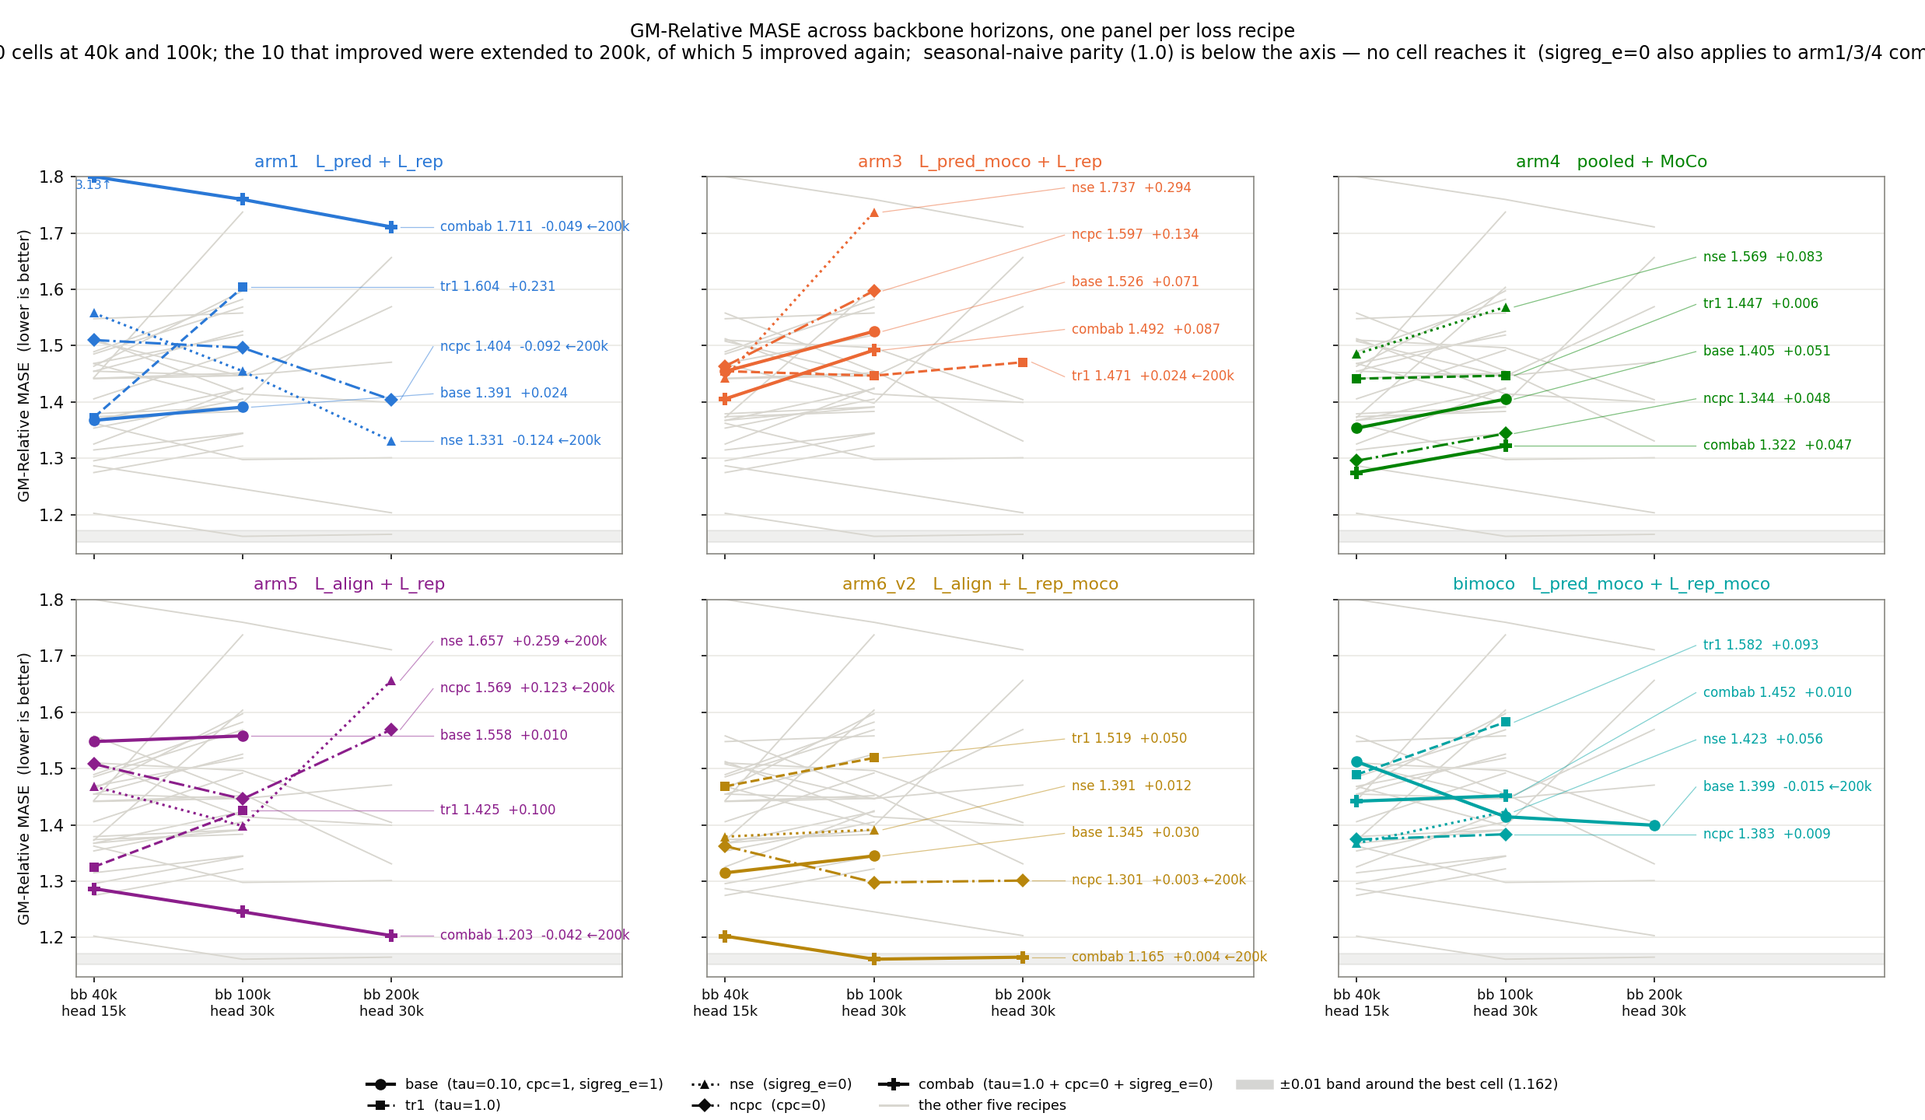
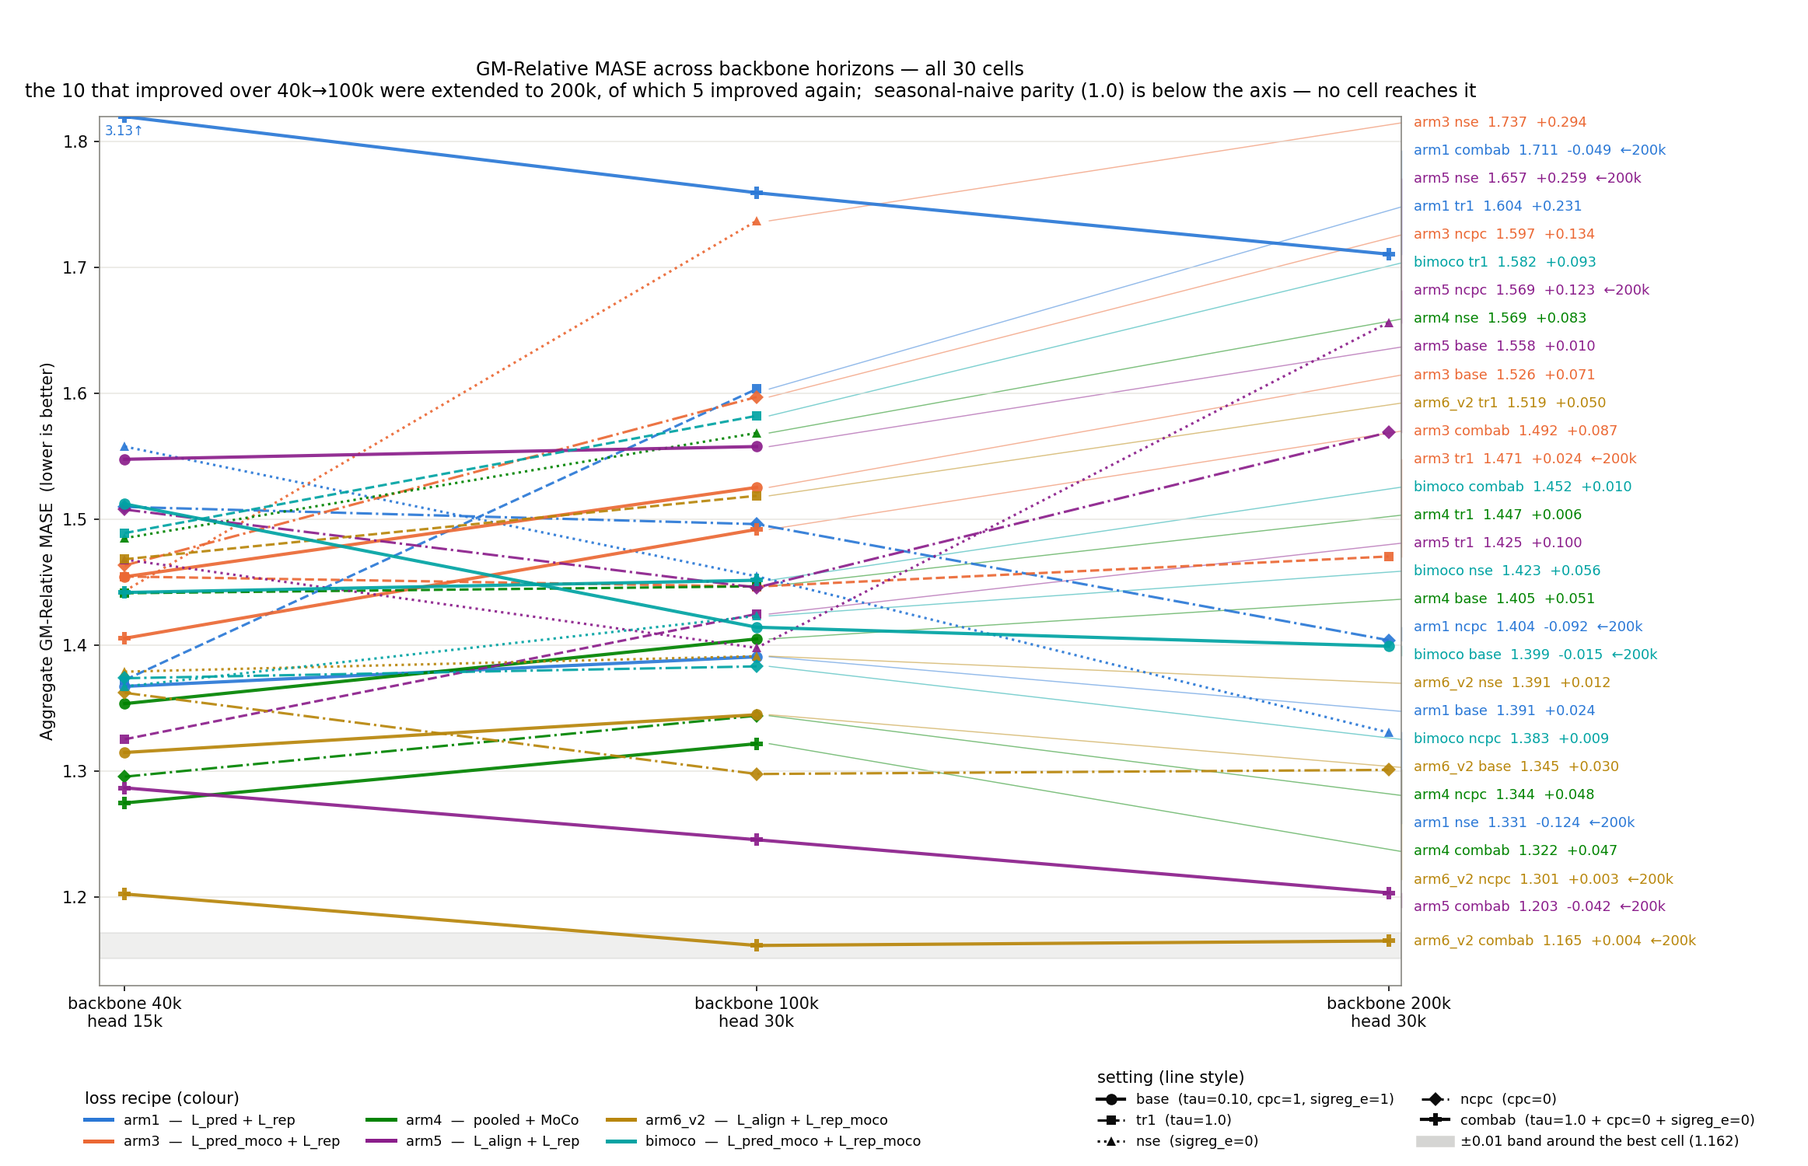
report(#379): restore the all-cell chart as figure 1, keep per-recipe as figure 2
The per-recipe panels replaced the combined chart rather than complementing it.
Both are useful, so both are in: figure 1 is every cell on one axes, figure 2
splits the same data by recipe.

Figure 1 wins its width back by shortening the right-hand labels to name, last
value and change. The loss recipe and the knobs each setting turns are decoded
once in two legends instead of being repeated in all 30 labels — spelled out
per label they took more width than the curves. The plotting area now spans
about 78% of the figure instead of 35%.

Claude-Session: https://claude.ai/code/session_012NGZ7hjBMq9qppu4QyaqMw

diff --git a/reports/2026-07-21_split_pred_rep_small/plots/_make_eval_progression.py b/reports/2026-07-21_split_pred_rep_small/plots/_make_eval_progression.py
@@ -1,9 +1,12 @@
-"""GM-MASE across backbone horizons, one panel per loss recipe.
+"""GM-MASE for every cell across backbone horizons, one combined chart.
 
 All 30 cells have backbone 40k and 100k; the 10 that improved over that stretch
-were extended to 200k. Splitting by recipe keeps every label beside its own line
-inside its own panel — a single combined panel needs 30 leader lines to the
-right margin, which is what made the earlier version hard to read.
+were extended to 200k.
+
+The right-hand labels carry only the cell name, its last value and its change.
+The loss recipe and the knobs each setting turns are decoded once in the two
+legends instead of being repeated in all 30 labels — spelled out per label they
+took more width than the curves themselves.
 """
 from pathlib import Path
 import matplotlib.pyplot as plt
@@ -18,12 +21,10 @@ plt.rcParams.update({
     "xtick.color": INK, "ytick.color": INK,
 })
 
-X = [0, 1, 2]           # 40k, 100k, 200k
-YMIN, YMAX = 1.13, 1.80  # arm1 combab's 3.13 at 40k is annotated, not drawn
+X = [0, 1, 2]
+YMIN, YMAX = 1.13, 1.82
 SEED_NOISE = 0.01
-
-cells = C.all_cells()
-by_arm = {a: [(v, vals) for (aa, v, vals) in cells if aa == a] for a in C.ARMS}
+LABEL_X = 2.04          # just outside the axes; the figure margin holds the text
 
 def spread(anchors, gap, lo, hi):
     order = sorted(range(len(anchors)), key=lambda i: anchors[i])
@@ -35,79 +36,76 @@ def spread(anchors, gap, lo, hi):
         pos[i] = min(pos[i], prev - gap); prev = pos[i]
     return pos
 
-fig, axes = plt.subplots(2, 3, figsize=(16.5, 9.6), sharex=True, sharey=True)
+cells = C.all_cells()
 best_val = min(v for _a, _v, vals in cells for v in vals if v is not None)
 
-for ax, arm in zip(axes.flat, C.ARMS):
+fig, ax = plt.subplots(figsize=(15.5, 10))
+# Axes take the full left portion; labels live in the right margin.
+fig.subplots_adjust(left=0.055, right=0.775, top=0.90, bottom=0.155)
+
+anchors, drawn = [], []
+for arm, var, vals in cells:
+    colour, st = C.ARM_COLOR[arm], C.VAR_STYLE[var]
+    pts = [(x, min(v, YMAX)) for x, v in zip(X, vals) if v is not None]
+    if len(pts) > 1:
+        ax.plot([p[0] for p in pts], [p[1] for p in pts], color=colour,
+                ls=st["ls"], lw=st["lw"], marker=st["marker"],
+                markersize=st["ms"], markeredgewidth=0, alpha=0.92, zorder=3)
+    for x, v in zip(X, vals):
+        if v is not None and v > YMAX:
+            ax.annotate(f"{v:.2f}↑", xy=(x, YMAX - 0.006), fontsize=8,
+                        color=colour, ha="center", va="top", zorder=5)
+    anchors.append(pts[-1][1]); drawn.append((arm, var, vals, pts[-1]))
+
+ys = spread(anchors, gap=(YMAX - YMIN) / (len(anchors) + 1),
+            lo=YMIN + 0.005, hi=YMAX - 0.005)
+for (arm, var, vals, (last_x, last_v)), y_lab in zip(drawn, ys):
     colour = C.ARM_COLOR[arm]
-    # Every other recipe in grey, so each panel keeps the full context.
-    for other, rows in by_arm.items():
-        if other == arm: continue
-        for var, vals in rows:
-            pts = [(x, min(v, YMAX)) for x, v in zip(X, vals) if v is not None]
-            if len(pts) > 1:
-                ax.plot([p[0] for p in pts], [p[1] for p in pts],
-                        color="#d8d6cf", lw=0.9, zorder=1)
+    have = [v for v in vals if v is not None]
+    delta = f"  {have[-1] - have[-2]:+.3f}" if len(have) > 1 else ""
+    tag = "  ←200k" if last_x == 2 else ""
+    ax.plot([last_x + 0.02, LABEL_X - 0.02], [last_v, y_lab], color=colour,
+            lw=0.7, alpha=0.5, zorder=1, clip_on=False)
+    ax.text(LABEL_X, y_lab, f"{C.label(arm, var)}  {have[-1]:.3f}{delta}{tag}",
+            color=colour, fontsize=8.5, va="center", ha="left", clip_on=False)
 
-    anchors, drawn = [], []
-    for var, vals in by_arm[arm]:
-        pts = [(x, min(v, YMAX)) for x, v in zip(X, vals) if v is not None]
-        st = C.VAR_STYLE[var]
-        if len(pts) > 1:
-            ax.plot([p[0] for p in pts], [p[1] for p in pts], color=colour,
-                    ls=st["ls"], lw=st["lw"], marker=st["marker"],
-                    markersize=st["ms"], markeredgewidth=0, zorder=4)
-        for x, v in zip(X, vals):
-            if v is not None and v > YMAX:
-                ax.annotate(f"{v:.2f}↑", xy=(x, YMAX - 0.006), fontsize=7.5,
-                            color=colour, ha="center", va="top", zorder=5)
-        last_x, last_v = pts[-1]
-        anchors.append(last_v); drawn.append((var, vals, last_x, last_v))
-
-    ys = spread(anchors, gap=(YMAX - YMIN) / 8.0, lo=YMIN + 0.02, hi=YMAX - 0.02)
-    for (var, vals, last_x, last_v), y_lab in zip(drawn, ys):
-        have = [v for v in vals if v is not None]
-        delta = f"  {have[-1] - have[-2]:+.3f}" if len(have) > 1 else ""
-        tag = "←200k" if last_x == 2 else ""
-        ax.plot([last_x + 0.06, 2.28], [last_v, y_lab], color=colour,
-                lw=0.6, alpha=0.5, zorder=2)
-        ax.text(2.33, y_lab, f"{C.VAR_SHORT[var]} {have[-1]:.3f}{delta} {tag}",
-                color=colour, fontsize=8, va="center", ha="left")
-
-    ax.axhspan(best_val - SEED_NOISE, best_val + SEED_NOISE,
-               color=MUTED, alpha=0.13, zorder=0)
-    ax.set_title(f"{arm}   {C.ARM_LOSS[arm]}", fontsize=10.5, color=colour, pad=6)
-    ax.set_xlim(-0.12, 3.55)
-    ax.set_ylim(YMIN, YMAX)
-    ax.set_xticks(X)
-    ax.set_xticklabels(["bb 40k\nhead 15k", "bb 100k\nhead 30k", "bb 200k\nhead 30k"],
-                       fontsize=8.5)
-    ax.grid(True, axis="y", color=GRID, alpha=0.7)
-
-for ax in axes[:, 0]:
-    ax.set_ylabel("GM-Relative MASE  (lower is better)", fontsize=9.5)
+ax.axhspan(best_val - SEED_NOISE, best_val + SEED_NOISE,
+           color=MUTED, alpha=0.13, zorder=0)
+ax.set_xticks(X)
+ax.set_xticklabels(["backbone 40k\nhead 15k", "backbone 100k\nhead 30k",
+                    "backbone 200k\nhead 30k"], fontsize=10)
+ax.set_xlim(-0.04, 2.02)
+ax.set_ylim(YMIN, YMAX)
+ax.set_ylabel("Aggregate GM-Relative MASE  (lower is better)")
+ax.grid(True, axis="y", color=GRID, alpha=0.7)
 
 from matplotlib.lines import Line2D
-handles = [Line2D([], [], color=INK, ls=C.VAR_STYLE[v]["ls"],
-                  marker=C.VAR_STYLE[v]["marker"], markersize=C.VAR_STYLE[v]["ms"],
-                  markeredgewidth=0, lw=C.VAR_STYLE[v]["lw"],
-                  label=f"{C.VAR_SHORT[v]}  ({C.variant_knobs('arm1', v)})")
-           for v in C.VARIANTS]
-handles += [Line2D([], [], color="#d8d6cf", lw=1.4, label="the other five recipes"),
-            Line2D([], [], color=MUTED, lw=6, alpha=0.35,
-                   label=f"±{SEED_NOISE} band around the best cell ({best_val:.3f})")]
-fig.legend(handles=handles, loc="lower center", ncol=4, fontsize=8.5,
-           frameon=False, bbox_to_anchor=(0.5, -0.005))
+recipe_handles = [Line2D([], [], color=C.ARM_COLOR[a], lw=2.4,
+                         label=f"{a}  —  {C.ARM_LOSS[a]}") for a in C.ARMS]
+setting_handles = [Line2D([], [], color=INK, ls=C.VAR_STYLE[v]["ls"],
+                          marker=C.VAR_STYLE[v]["marker"],
+                          markersize=C.VAR_STYLE[v]["ms"], markeredgewidth=0,
+                          lw=C.VAR_STYLE[v]["lw"],
+                          label=f"{C.VAR_SHORT[v]}  ({C.variant_knobs('arm1', v)})")
+                   for v in C.VARIANTS]
+setting_handles.append(Line2D([], [], color=MUTED, lw=7, alpha=0.35,
+                              label=f"±{SEED_NOISE} band around the best cell ({best_val:.3f})"))
+leg1 = fig.legend(handles=recipe_handles, loc="lower left", ncol=3, fontsize=8.5,
+                  frameon=False, title="loss recipe (colour)",
+                  bbox_to_anchor=(0.04, 0.004))
+leg1._legend_box.align = "left"
+leg2 = fig.legend(handles=setting_handles, loc="lower left", ncol=2, fontsize=8.5,
+                  frameon=False, title="setting (line style)",
+                  bbox_to_anchor=(0.60, 0.004))
+leg2._legend_box.align = "left"
 
 n200 = sum(1 for _a, _v, vals in cells if vals[2] is not None)
 down = sum(1 for _a, _v, vals in cells
            if vals[2] is not None and vals[1] is not None and vals[2] < vals[1])
-fig.suptitle("GM-Relative MASE across backbone horizons, one panel per loss recipe\n"
-             f"all 30 cells at 40k and 100k; the {n200} that improved were extended to 200k, "
-             f"of which {down} improved again;  seasonal-naive parity (1.0) is below the axis — "
-             f"no cell reaches it  (sigreg_e=0 also applies to arm1/3/4 combab)",
-             fontsize=11.5)
-fig.tight_layout(rect=[0, 0.075, 1, 0.93])
+ax.set_title("GM-Relative MASE across backbone horizons — all 30 cells\n"
+             f"the {n200} that improved over 40k→100k were extended to 200k, of which "
+             f"{down} improved again;  seasonal-naive parity (1.0) is below the axis — "
+             "no cell reaches it", fontsize=11.5, pad=12)
 out = HERE / "eval_2L_gm_mase_progression.png"
 fig.savefig(out)
 print(f"wrote {out}  ({len(cells)} cells, {n200} at 200k, {down} improved again)")

diff --git a/reports/2026-07-21_split_pred_rep_small/plots/_make_eval_per_recipe.py b/reports/2026-07-21_split_pred_rep_small/plots/_make_eval_per_recipe.py
@@ -1,0 +1,117 @@
+"""GM-MASE across backbone horizons, one panel per loss recipe.
+
+Companion to the combined chart in _make_eval_progression.py: same data, split
+by recipe so each recipe's five settings can be read without tracing a line
+across 30 others.
+
+All 30 cells have backbone 40k and 100k; the 10 that improved over that stretch
+were extended to 200k. Splitting by recipe keeps every label beside its own line
+inside its own panel — a single combined panel needs 30 leader lines to the
+right margin, which is what made the earlier version hard to read.
+"""
+from pathlib import Path
+import matplotlib.pyplot as plt
+
+import _cells as C
+
+HERE = Path(__file__).parent
+INK, MUTED, GRID = "#0b0b0b", "#898781", "#e1e0d9"
+plt.rcParams.update({
+    "figure.dpi": 150, "savefig.dpi": 150, "font.size": 10,
+    "axes.edgecolor": MUTED, "axes.labelcolor": INK,
+    "xtick.color": INK, "ytick.color": INK,
+})
+
+X = [0, 1, 2]           # 40k, 100k, 200k
+YMIN, YMAX = 1.13, 1.80  # arm1 combab's 3.13 at 40k is annotated, not drawn
+SEED_NOISE = 0.01
+
+cells = C.all_cells()
+by_arm = {a: [(v, vals) for (aa, v, vals) in cells if aa == a] for a in C.ARMS}
+
+def spread(anchors, gap, lo, hi):
+    order = sorted(range(len(anchors)), key=lambda i: anchors[i])
+    pos = list(anchors); prev = lo - gap
+    for i in order:
+        pos[i] = max(pos[i], prev + gap); prev = pos[i]
+    prev = hi + gap
+    for i in reversed(order):
+        pos[i] = min(pos[i], prev - gap); prev = pos[i]
+    return pos
+
+fig, axes = plt.subplots(2, 3, figsize=(16.5, 9.6), sharex=True, sharey=True)
+best_val = min(v for _a, _v, vals in cells for v in vals if v is not None)
+
+for ax, arm in zip(axes.flat, C.ARMS):
+    colour = C.ARM_COLOR[arm]
+    # Every other recipe in grey, so each panel keeps the full context.
+    for other, rows in by_arm.items():
+        if other == arm: continue
+        for var, vals in rows:
+            pts = [(x, min(v, YMAX)) for x, v in zip(X, vals) if v is not None]
+            if len(pts) > 1:
+                ax.plot([p[0] for p in pts], [p[1] for p in pts],
+                        color="#d8d6cf", lw=0.9, zorder=1)
+
+    anchors, drawn = [], []
+    for var, vals in by_arm[arm]:
+        pts = [(x, min(v, YMAX)) for x, v in zip(X, vals) if v is not None]
+        st = C.VAR_STYLE[var]
+        if len(pts) > 1:
+            ax.plot([p[0] for p in pts], [p[1] for p in pts], color=colour,
+                    ls=st["ls"], lw=st["lw"], marker=st["marker"],
+                    markersize=st["ms"], markeredgewidth=0, zorder=4)
+        for x, v in zip(X, vals):
+            if v is not None and v > YMAX:
+                ax.annotate(f"{v:.2f}↑", xy=(x, YMAX - 0.006), fontsize=7.5,
+                            color=colour, ha="center", va="top", zorder=5)
+        last_x, last_v = pts[-1]
+        anchors.append(last_v); drawn.append((var, vals, last_x, last_v))
+
+    ys = spread(anchors, gap=(YMAX - YMIN) / 8.0, lo=YMIN + 0.02, hi=YMAX - 0.02)
+    for (var, vals, last_x, last_v), y_lab in zip(drawn, ys):
+        have = [v for v in vals if v is not None]
+        delta = f"  {have[-1] - have[-2]:+.3f}" if len(have) > 1 else ""
+        tag = "←200k" if last_x == 2 else ""
+        ax.plot([last_x + 0.06, 2.28], [last_v, y_lab], color=colour,
+                lw=0.6, alpha=0.5, zorder=2)
+        ax.text(2.33, y_lab, f"{C.VAR_SHORT[var]} {have[-1]:.3f}{delta} {tag}",
+                color=colour, fontsize=8, va="center", ha="left")
+
+    ax.axhspan(best_val - SEED_NOISE, best_val + SEED_NOISE,
+               color=MUTED, alpha=0.13, zorder=0)
+    ax.set_title(f"{arm}   {C.ARM_LOSS[arm]}", fontsize=10.5, color=colour, pad=6)
+    ax.set_xlim(-0.12, 3.55)
+    ax.set_ylim(YMIN, YMAX)
+    ax.set_xticks(X)
+    ax.set_xticklabels(["bb 40k\nhead 15k", "bb 100k\nhead 30k", "bb 200k\nhead 30k"],
+                       fontsize=8.5)
+    ax.grid(True, axis="y", color=GRID, alpha=0.7)
+
+for ax in axes[:, 0]:
+    ax.set_ylabel("GM-Relative MASE  (lower is better)", fontsize=9.5)
+
+from matplotlib.lines import Line2D
+handles = [Line2D([], [], color=INK, ls=C.VAR_STYLE[v]["ls"],
+                  marker=C.VAR_STYLE[v]["marker"], markersize=C.VAR_STYLE[v]["ms"],
+                  markeredgewidth=0, lw=C.VAR_STYLE[v]["lw"],
+                  label=f"{C.VAR_SHORT[v]}  ({C.variant_knobs('arm1', v)})")
+           for v in C.VARIANTS]
+handles += [Line2D([], [], color="#d8d6cf", lw=1.4, label="the other five recipes"),
+            Line2D([], [], color=MUTED, lw=6, alpha=0.35,
+                   label=f"±{SEED_NOISE} band around the best cell ({best_val:.3f})")]
+fig.legend(handles=handles, loc="lower center", ncol=4, fontsize=8.5,
+           frameon=False, bbox_to_anchor=(0.5, -0.005))
+
+n200 = sum(1 for _a, _v, vals in cells if vals[2] is not None)
+down = sum(1 for _a, _v, vals in cells
+           if vals[2] is not None and vals[1] is not None and vals[2] < vals[1])
+fig.suptitle("GM-Relative MASE across backbone horizons, one panel per loss recipe\n"
+             f"all 30 cells at 40k and 100k; the {n200} that improved were extended to 200k, "
+             f"of which {down} improved again;  seasonal-naive parity (1.0) is below the axis — "
+             f"no cell reaches it  (sigreg_e=0 also applies to arm1/3/4 combab)",
+             fontsize=11.5)
+fig.tight_layout(rect=[0, 0.075, 1, 0.93])
+out = HERE / "eval_2L_gm_mase_per_recipe.png"
+fig.savefig(out)
+print(f"wrote {out}  ({len(cells)} cells, {n200} at 200k, {down} improved again)")

diff --git a/reports/2026-07-21_split_pred_rep_small/small_long.md b/reports/2026-07-21_split_pred_rep_small/small_long.md
@@ -8,37 +8,43 @@ Definitions of each recipe and each setting are in [Architectures](#architecture
 
 ## Figures
 
-### 1. GM-Relative MASE across backbone horizons
+### 1. GM-Relative MASE across backbone horizons — all 30 cells
 
-One panel per loss recipe, sharing axes. Inside a panel the five settings are coloured and the other 25 cells are grey, so each recipe is readable on its own and still in context. Labels carry the cell's last value and its change from the previous horizon; `←200k` marks the cells extended to 200k.
+Every cell on one chart. Colour is the loss recipe, line style is the setting, and both are decoded in the legends. Labels carry the cell's last value and its change from the previous horizon; `←200k` marks the cells extended to 200k.
 
-![Six panels, one per loss recipe, each plotting GM-Relative MASE at backbone 40k (head 15k), 100k (head 30k) and 200k (head 30k); the panel's own five settings are in colour with the other 25 cells in grey; line style encodes the setting; the grey horizontal band is ±0.01 around the best cell; arm1 combab's 3.13 at 40k is annotated above the axis.](plots/eval_2L_gm_mase_progression.png)
+![One chart plotting GM-Relative MASE for all 30 cells at backbone 40k (head 15k), 100k (head 30k) and 200k (head 30k); colour encodes the loss recipe and line style the setting; the grey horizontal band is ±0.01 around the best cell; arm1 combab's 3.13 at 40k is annotated above the axis.](plots/eval_2L_gm_mase_progression.png)
 
-### 2. GM-Relative MASE per dataset domain
+### 2. The same data, one panel per loss recipe
+
+Each panel colours its own five settings and greys the other 25 cells, so a recipe can be read without tracing one line across the other 29.
+
+![Six panels, one per loss recipe, each plotting GM-Relative MASE at backbone 40k, 100k and 200k; the panel's own five settings are in colour with the other 25 cells in grey; line style encodes the setting; the grey horizontal band is ±0.01 around the best cell.](plots/eval_2L_gm_mase_per_recipe.png)
+
+### 3. GM-Relative MASE per dataset domain
 
 The headline number is one geometric mean over all 97 configs. These radars apply that same geometric mean inside each of the 7 GIFT-Eval domains, so a cell's strong and weak domains are visible instead of averaged away. Left: the 5 lowest cells, each at its last evaluated backbone step. Right: every cell that improved from 100k to 200k.
 
 ![Two radar charts over the 7 GIFT-Eval dataset domains, radial axis log2 of the GM-Relative MASE ratio; a red dashed ring marks seasonal-naive parity at 1.0, inside it the model is better; left panel the 5 lowest cells, right panel the 5 cells that improved from backbone 100k to 200k.](plots/eval_domain_radar.png)
 
-### 3. Ranking at backbone 40k
+### 4. Ranking at backbone 40k
 
 ![Bar chart of GM-Relative MASE for all 30 cells at backbone step 40k, head 15k steps, sorted ascending; red dashed line at 1.0 = seasonal-naive; arm1 combab (3.13) clipped at 1.75.](plots/eval_2L_gm_mase_bars.png)
 
-### 4. Ranking at backbone 100k
+### 5. Ranking at backbone 100k
 
 ![Bar chart of GM-Relative MASE for all 30 cells at backbone step 100k, head 30k steps, sorted ascending; red dashed line at 1.0 = seasonal-naive.](plots/eval_2L_gm_mase_bars_100k.png)
 
-### 5. Latent movement between adjacent checkpoints
+### 6. Latent movement between adjacent checkpoints
 
 How far the latents of a fixed held-out batch rotate between one saved checkpoint and the next. Rows = setting, columns = `h_t` / `e_t`.
 
 ![Latent drift per adjacent-checkpoint pair, 5 rows (base / tr1 / nse / ncpc / combab) × 2 columns (h_t encoder output, e_t patch embedding), x-axis log training step, y shared per column.](plots/latent_movement_per_arm.png)
 
-### 6. Forecast-to-latent distance `1 − ff` during training
+### 7. Forecast-to-latent distance `1 − ff` during training
 
 ![1 − ff per arm across training steps, one panel per setting (base / tr1 / nse / ncpc / combab), shared y axis, x-axis log training step.](plots/cos_error_per_arm.png)
 
-### 7. Dimension usage `u_batchtime` during training
+### 8. Dimension usage `u_batchtime` during training
 
 ![u_batchtime per arm, one panel per arm × setting, h_t solid and e_t dashed, x-axis log training step.](plots/dim_usage_per_arm.png)
 
@@ -118,7 +124,7 @@ Ranked by the 100k value. A dash in the 200k columns means the cell was not exte
 | 29 | `arm3 nse`        | 1.4432 | 1.7372 | +0.2940 | — | — |
 | 30 | `arm1 combab`     | 3.1251 | 1.7595 | −1.3656 | 1.7107 | −0.0488 |
 
-**On the ±0.01 error bars in figures 3 and 4.** Each cell is `N=1`, so this is not a measured seed-replicate interval for this experiment. It is a constant borrowed from the 2026-05-08 τ-sweep paired reruns via the [LeJEPA-SIGReg-τ report annex F](../2026-06-21_lejepa_sigreg_tau098/lejepa_sigreg_tau098.md#f-seed-noise-band), shown as a visual reference for "differences smaller than this have previously turned out to be within-seed noise", not as a confidence interval for this ranking.
+**On the ±0.01 error bars in figures 4 and 5.** Each cell is `N=1`, so this is not a measured seed-replicate interval for this experiment. It is a constant borrowed from the 2026-05-08 τ-sweep paired reruns via the [LeJEPA-SIGReg-τ report annex F](../2026-06-21_lejepa_sigreg_tau098/lejepa_sigreg_tau098.md#f-seed-noise-band), shown as a visual reference for "differences smaller than this have previously turned out to be within-seed noise", not as a confidence interval for this ranking.
 
 ### GM-Relative MASE per domain, the cells evaluated at backbone 200k
 
